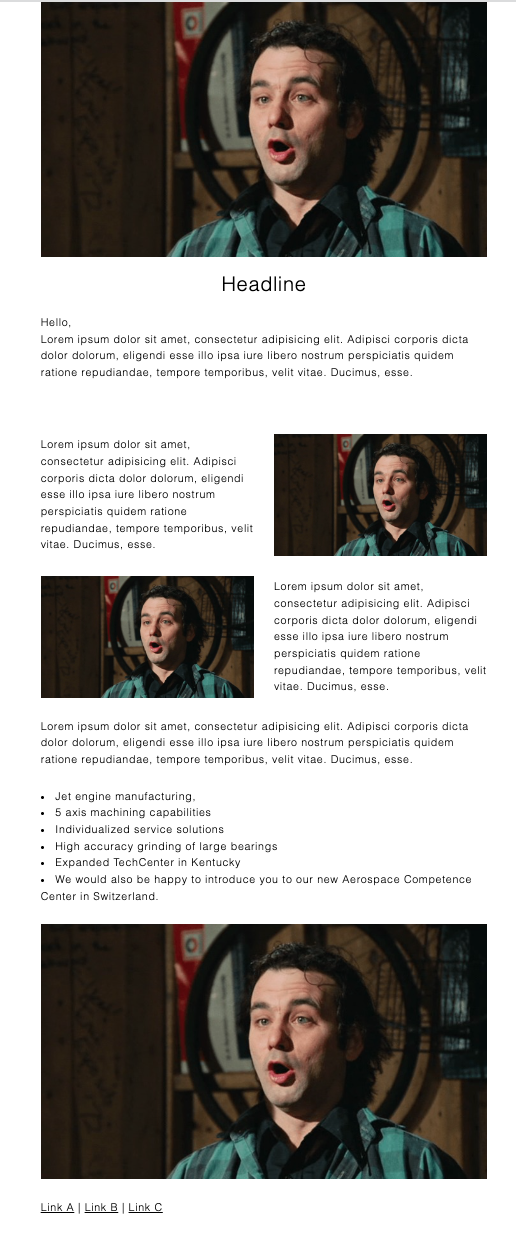
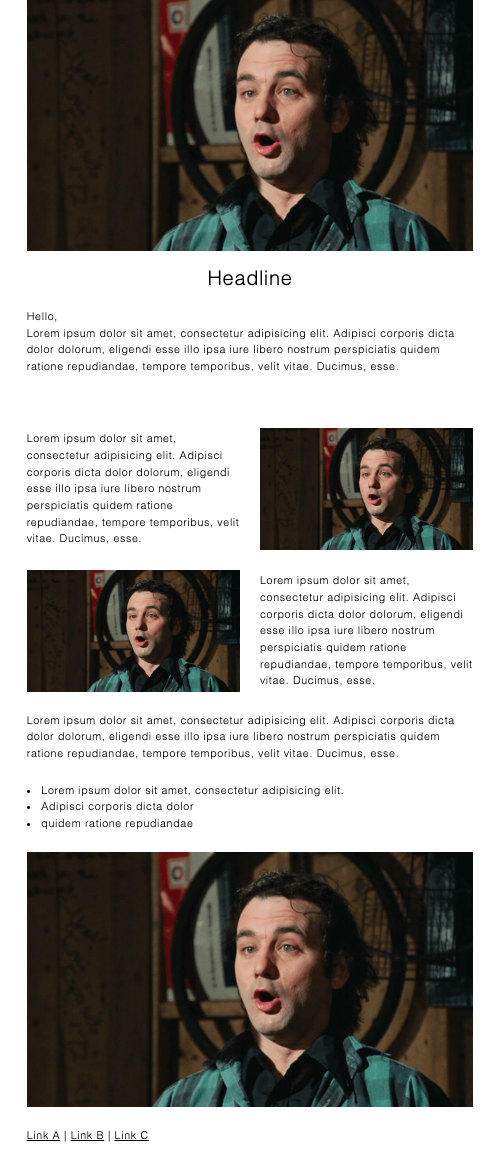
Updated screenshot

Changed region(s): [[0.0302, 0.0, 0.9677, 0.9983]]

diff --git a/index.html b/index.html
@@ -175,12 +175,9 @@
                 </p>
 
                 <ul>
-                    <li>Jet engine manufacturing,</li>
-                    <li>5 axis machining capabilities</li>
-                    <li>Individualized service solutions</li>
-                    <li>High accuracy grinding of large bearings</li>
-                    <li>Expanded TechCenter in Kentucky</li>
-                    <li>We would also be happy to introduce you to our new Aerospace Competence Center in Switzerland.</li>
+                    <li>Lorem ipsum dolor sit amet, consectetur adipisicing elit.</li>
+                    <li>Adipisci corporis dicta dolor</li>
+                    <li>quidem ratione repudiandae</li>
                 </ul>
             </td>
         </tr>
